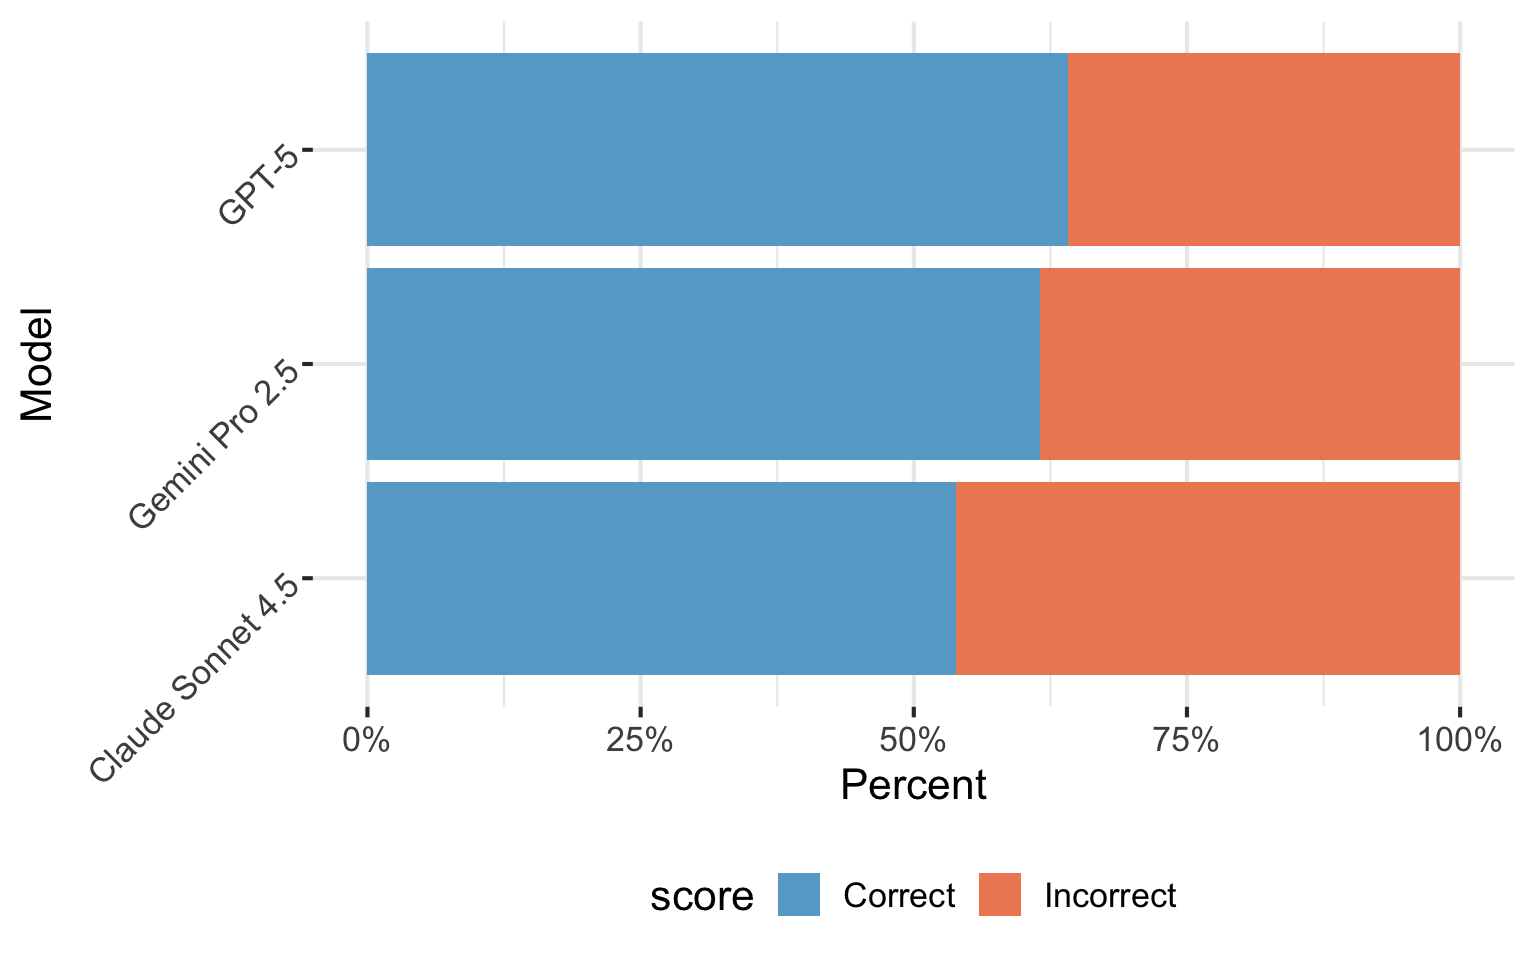
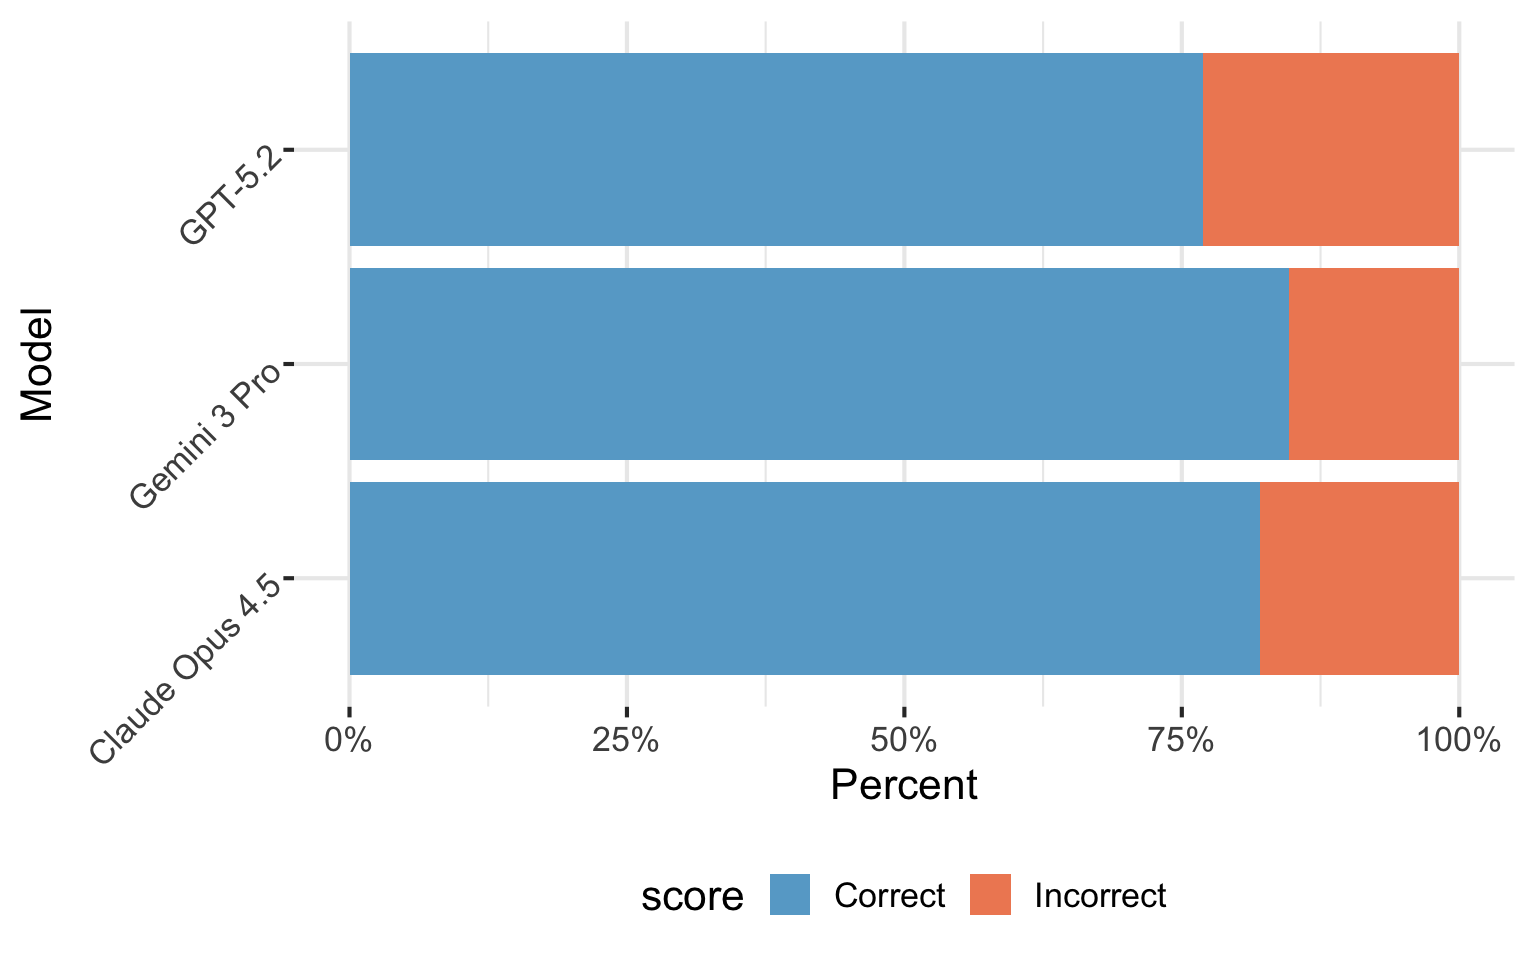
regenerate index with new data

diff --git a/docs/site_libs/quarto-html/quarto-syntax-highlighting-37eea08aefeeee20ff55810ff984fec1.css b/docs/site_libs/quarto-html/quarto-syntax-highlighting-37eea08aefeeee20ff55810ff984fec1.css
@@ -1,0 +1,236 @@
+/* quarto syntax highlight colors */
+:root {
+  --quarto-hl-ot-color: #003B4F;
+  --quarto-hl-at-color: #657422;
+  --quarto-hl-ss-color: #20794D;
+  --quarto-hl-an-color: #5E5E5E;
+  --quarto-hl-fu-color: #4758AB;
+  --quarto-hl-st-color: #20794D;
+  --quarto-hl-cf-color: #003B4F;
+  --quarto-hl-op-color: #5E5E5E;
+  --quarto-hl-er-color: #AD0000;
+  --quarto-hl-bn-color: #AD0000;
+  --quarto-hl-al-color: #AD0000;
+  --quarto-hl-va-color: #111111;
+  --quarto-hl-bu-color: inherit;
+  --quarto-hl-ex-color: inherit;
+  --quarto-hl-pp-color: #AD0000;
+  --quarto-hl-in-color: #5E5E5E;
+  --quarto-hl-vs-color: #20794D;
+  --quarto-hl-wa-color: #5E5E5E;
+  --quarto-hl-do-color: #5E5E5E;
+  --quarto-hl-im-color: #00769E;
+  --quarto-hl-ch-color: #20794D;
+  --quarto-hl-dt-color: #AD0000;
+  --quarto-hl-fl-color: #AD0000;
+  --quarto-hl-co-color: #5E5E5E;
+  --quarto-hl-cv-color: #5E5E5E;
+  --quarto-hl-cn-color: #8f5902;
+  --quarto-hl-sc-color: #5E5E5E;
+  --quarto-hl-dv-color: #AD0000;
+  --quarto-hl-kw-color: #003B4F;
+}
+
+/* other quarto variables */
+:root {
+  --quarto-font-monospace: SFMono-Regular, Menlo, Monaco, Consolas, "Liberation Mono", "Courier New", monospace;
+}
+
+/* syntax highlight based on Pandoc's rules */
+pre > code.sourceCode > span {
+  color: #003B4F;
+}
+
+code.sourceCode > span {
+  color: #003B4F;
+}
+
+div.sourceCode,
+div.sourceCode pre.sourceCode {
+  color: #003B4F;
+}
+
+/* Normal */
+code span {
+  color: #003B4F;
+}
+
+/* Alert */
+code span.al {
+  color: #AD0000;
+  font-style: inherit;
+}
+
+/* Annotation */
+code span.an {
+  color: #5E5E5E;
+  font-style: inherit;
+}
+
+/* Attribute */
+code span.at {
+  color: #657422;
+  font-style: inherit;
+}
+
+/* BaseN */
+code span.bn {
+  color: #AD0000;
+  font-style: inherit;
+}
+
+/* BuiltIn */
+code span.bu {
+  font-style: inherit;
+}
+
+/* ControlFlow */
+code span.cf {
+  color: #003B4F;
+  font-weight: bold;
+  font-style: inherit;
+}
+
+/* Char */
+code span.ch {
+  color: #20794D;
+  font-style: inherit;
+}
+
+/* Constant */
+code span.cn {
+  color: #8f5902;
+  font-style: inherit;
+}
+
+/* Comment */
+code span.co {
+  color: #5E5E5E;
+  font-style: inherit;
+}
+
+/* CommentVar */
+code span.cv {
+  color: #5E5E5E;
+  font-style: italic;
+}
+
+/* Documentation */
+code span.do {
+  color: #5E5E5E;
+  font-style: italic;
+}
+
+/* DataType */
+code span.dt {
+  color: #AD0000;
+  font-style: inherit;
+}
+
+/* DecVal */
+code span.dv {
+  color: #AD0000;
+  font-style: inherit;
+}
+
+/* Error */
+code span.er {
+  color: #AD0000;
+  font-style: inherit;
+}
+
+/* Extension */
+code span.ex {
+  font-style: inherit;
+}
+
+/* Float */
+code span.fl {
+  color: #AD0000;
+  font-style: inherit;
+}
+
+/* Function */
+code span.fu {
+  color: #4758AB;
+  font-style: inherit;
+}
+
+/* Import */
+code span.im {
+  color: #00769E;
+  font-style: inherit;
+}
+
+/* Information */
+code span.in {
+  color: #5E5E5E;
+  font-style: inherit;
+}
+
+/* Keyword */
+code span.kw {
+  color: #003B4F;
+  font-weight: bold;
+  font-style: inherit;
+}
+
+/* Operator */
+code span.op {
+  color: #5E5E5E;
+  font-style: inherit;
+}
+
+/* Other */
+code span.ot {
+  color: #003B4F;
+  font-style: inherit;
+}
+
+/* Preprocessor */
+code span.pp {
+  color: #AD0000;
+  font-style: inherit;
+}
+
+/* SpecialChar */
+code span.sc {
+  color: #5E5E5E;
+  font-style: inherit;
+}
+
+/* SpecialString */
+code span.ss {
+  color: #20794D;
+  font-style: inherit;
+}
+
+/* String */
+code span.st {
+  color: #20794D;
+  font-style: inherit;
+}
+
+/* Variable */
+code span.va {
+  color: #111111;
+  font-style: inherit;
+}
+
+/* VerbatimString */
+code span.vs {
+  color: #20794D;
+  font-style: inherit;
+}
+
+/* Warning */
+code span.wa {
+  color: #5E5E5E;
+  font-style: italic;
+}
+
+.prevent-inlining {
+  content: "</";
+}
+
+/*# sourceMappingURL=27d3d809615f7771493d095567f04340.css.map */

diff --git a/docs/index.html b/docs/index.html
@@ -2,7 +2,7 @@
 <html xmlns="http://www.w3.org/1999/xhtml" lang="en" xml:lang="en"><head>
 
 <meta charset="utf-8">
-<meta name="generator" content="quarto-1.7.33">
+<meta name="generator" content="quarto-1.7.32">
 
 <meta name="viewport" content="width=device-width, initial-scale=1.0, user-scalable=yes">
 
@@ -70,7 +70,7 @@ pre > code.sourceCode > span > a:first-child::before { text-decoration: underlin
 <script src="site_libs/quarto-html/tippy.umd.min.js"></script>
 <script src="site_libs/quarto-html/anchor.min.js"></script>
 <link href="site_libs/quarto-html/tippy.css" rel="stylesheet">
-<link href="site_libs/quarto-html/quarto-syntax-highlighting-ea385d0e468b0dd5ea5bf0780b1290d9.css" rel="stylesheet" id="quarto-text-highlighting-styles">
+<link href="site_libs/quarto-html/quarto-syntax-highlighting-37eea08aefeeee20ff55810ff984fec1.css" rel="stylesheet" id="quarto-text-highlighting-styles">
 <script src="site_libs/bootstrap/bootstrap.min.js"></script>
 <link href="site_libs/bootstrap/bootstrap-icons.css" rel="stylesheet">
 <link href="site_libs/bootstrap/bootstrap-a14e3238c51140e99ccc48519b6ed9ce.min.css" rel="stylesheet" append-hash="true" id="quarto-bootstrap" data-mode="light">
